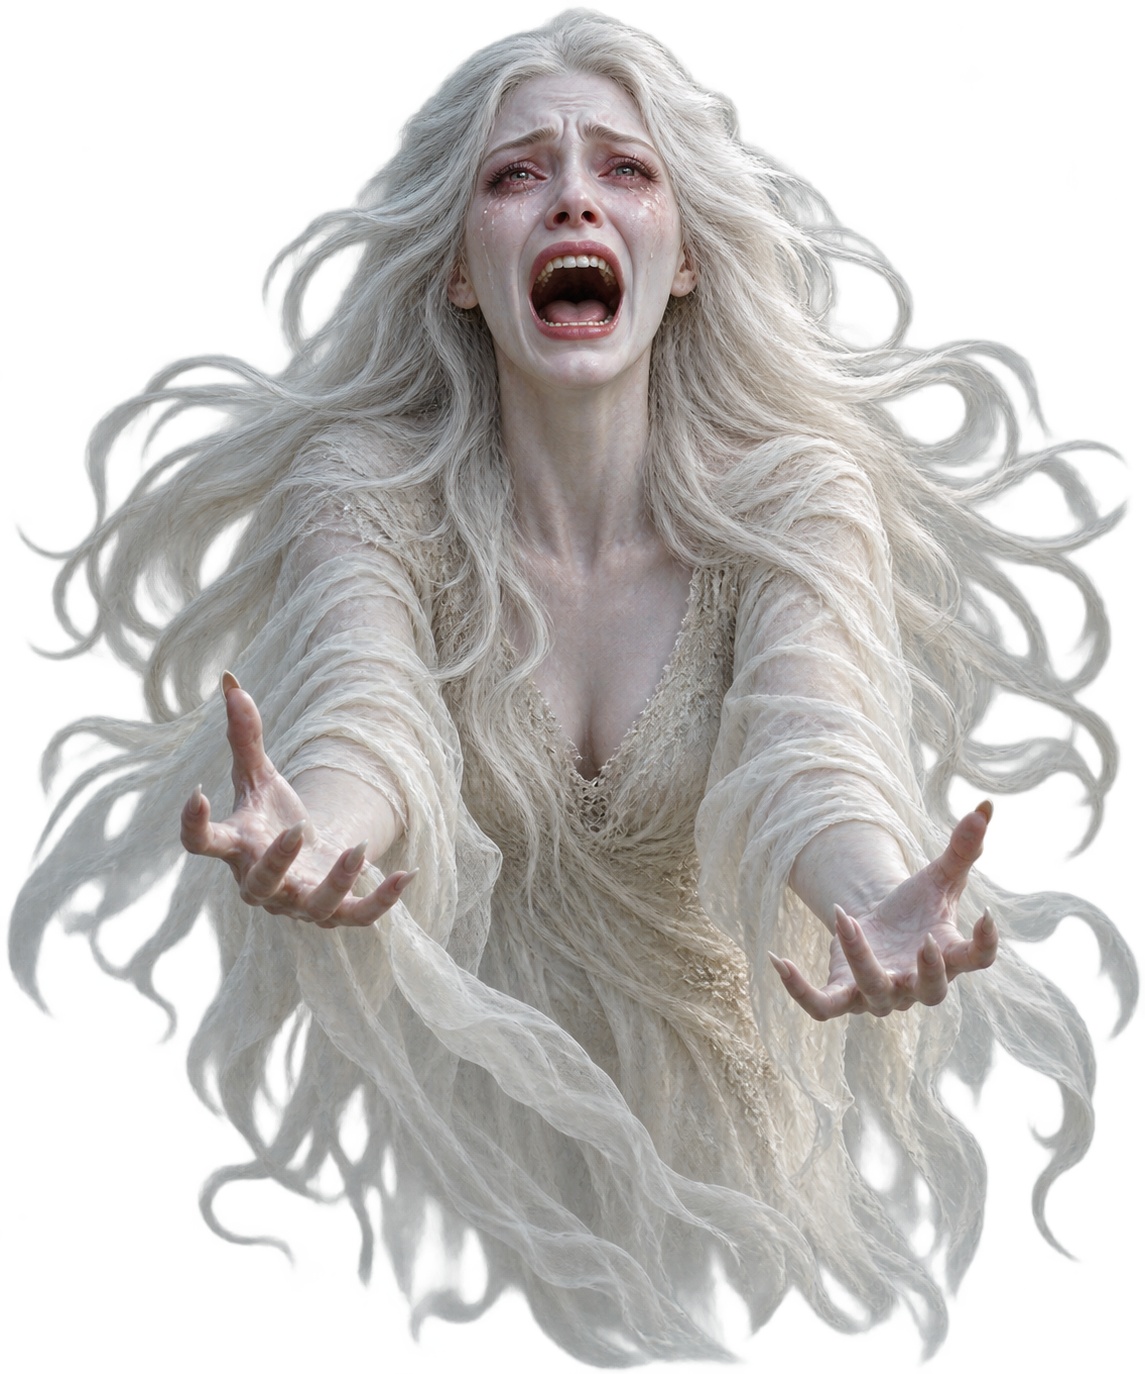
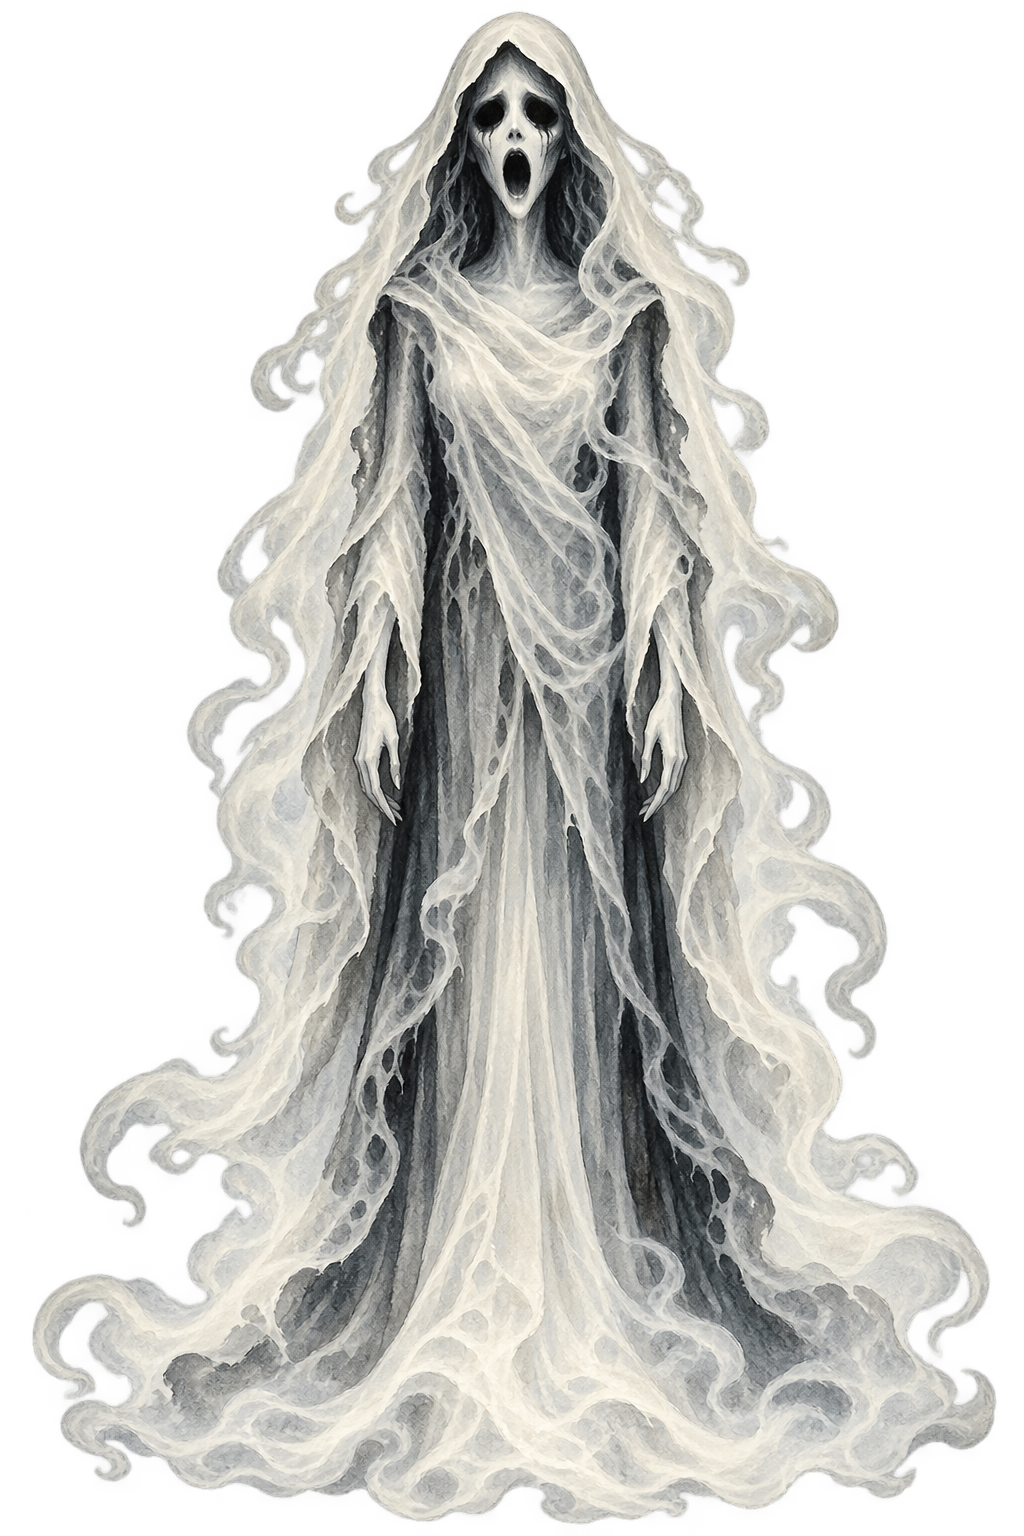
Use the veiled spirit banshee art and react once it vanishes
The banshee portrait is now the Veiled Spirit illustration. Its
transparent pixels carried pale colour, which showed as a white ground
wherever alpha was ignored; that colour is now black, with soft edges
faded toward black. When the event ends the player says
"WTF WAS THAT??...".

diff --git a/neon-city/game.js b/neon-city/game.js
@@ -1,4 +1,4 @@
-import {rollBanshee,bansheeFrame,playBansheeScream,drawBanshee} from './banshee.js?v=5';
+import {rollBanshee,bansheeFrame,playBansheeScream,drawBanshee} from './banshee.js?v=6';
 import {PubLife,PubConversation} from './pub-life.js?v=enter-talk-1';
 import {DepthRenderer} from './depth-renderer.js';
 import {CoverAttempt,loadCoverGrunt,playCoverGrunt} from './manholes.js?v=reach-4';
@@ -480,7 +480,7 @@ function tick(now){
     keys.clear();shiftKeys.clear();coverPressed=false;
     document.querySelector('#pace').hidden=true;
     document.querySelector('#message').textContent='';
-    if(!bansheeFrame((now-banshee.started)/1000).active)banshee=null;
+    if(!bansheeFrame((now-banshee.started)/1000).active){banshee=null;notice=3.5;noticeText='WTF WAS THAT??...';}
   }
   if(running&&!pubMenu.open&&!banshee){
     time+=dt;hitCooldown=Math.max(0,hitCooldown-dt);shake=Math.max(0,shake-dt*12);notice=Math.max(0,notice-dt);

diff --git a/neon-city/banshee.js b/neon-city/banshee.js
@@ -31,9 +31,9 @@ export function playBansheeScream(context,delay=0,random=Math.random){
   source.start(context.currentTime+delay);source.onended=()=>source.disconnect();
   return source;
 }
-// Preload the transparent photographic apparition when the game module loads.
+// Preload the transparent veiled-spirit illustration when the game module loads.
 const portrait=typeof Image==='undefined'?null:new Image();
-if(portrait)portrait.src=new URL('./assets/banshee.png',import.meta.url).href;
+if(portrait)portrait.src=new URL('./assets/banshee.png?v=veiled',import.meta.url).href;
 export function drawBanshee(ctx,width,height,seconds,opacity){
   if(!portrait?.complete||!portrait.naturalWidth||opacity<=0)return;
   const h=height*.98,w=h*portrait.naturalWidth/portrait.naturalHeight;

diff --git a/neon-city/index.html b/neon-city/index.html
@@ -33,6 +33,6 @@
     </section>
     <nav id="touch" aria-label="Movement controls"><button data-key="ArrowLeft" aria-label="Turn left">↶</button><div><button data-key="ArrowUp" aria-label="Walk forward">↑</button><button data-key="ArrowDown" aria-label="Walk backward">↓</button></div><button data-key="ArrowRight" aria-label="Turn right">↷</button></nav>
   </main>
-  <script type="module" src="game.js?v=banshee-5"></script>
+  <script type="module" src="game.js?v=banshee-7"></script>
 </body>
 </html>

diff --git a/neon-city/assets/banshee-art.md b/neon-city/assets/banshee-art.md
@@ -1,5 +1,8 @@
-Generated with the built-in image_gen tool, with transparent_background=true.
-Asset: banshee.png
+Generated with imagegen as the "Veiled Spirit" banshee concept (01 / The Veiled Spirit):
+a narrow, hooded apparition dissolving into mist, in gothic ink and watercolor.
+Asset: banshee.png (1024 × 1536, RGBA)
 
-Prompt:
-Use case: photorealistic-natural. Asset type: transparent game apparition sprite. Create a photorealistic beautiful adult female white banshee, facing the viewer, with an intensely desperate grief-stricken face, raised inner eyebrows, tearful eyes and mouth open in a heartbreaking scream. Natural elegant facial anatomy, realistic skin, long flowing silver-white hair, modest flowing ivory gown, spectral pale light. Waist-up portrait including hands reaching slightly outward, centered, entire hair and hands within frame, lower gown dissolves into transparent wisps. Face large and clearly readable. Cinematic realistic photograph quality, not cartoon or illustration. Genuine transparent background, no scenery, no text, no watermark.
+The source had an alpha channel but kept pale colour under its transparent pixels,
+so it showed a white ground in viewers that ignore alpha. Post-processing set the
+colour of fully transparent pixels to black and faded edge pixels (alpha < 64)
+toward black, so the background is transparent, and black where alpha is ignored.
